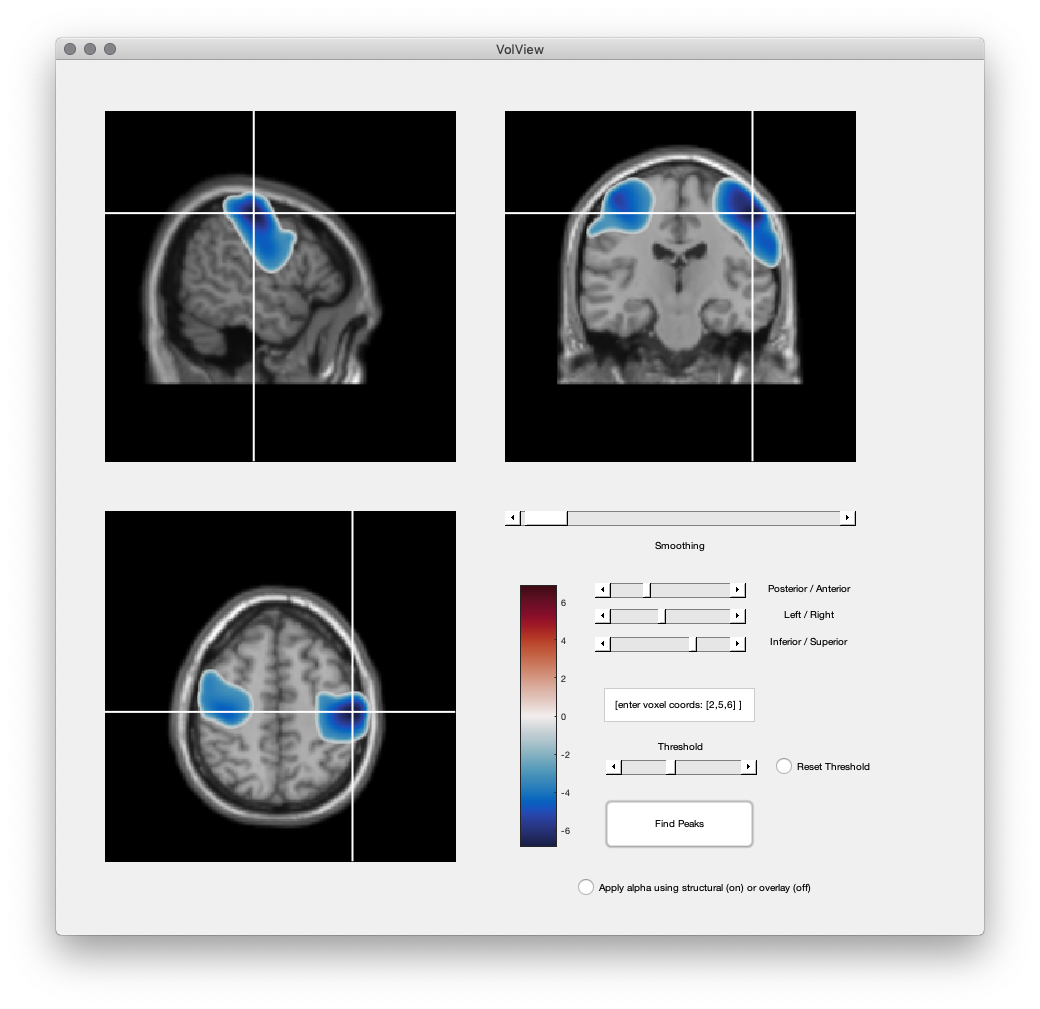
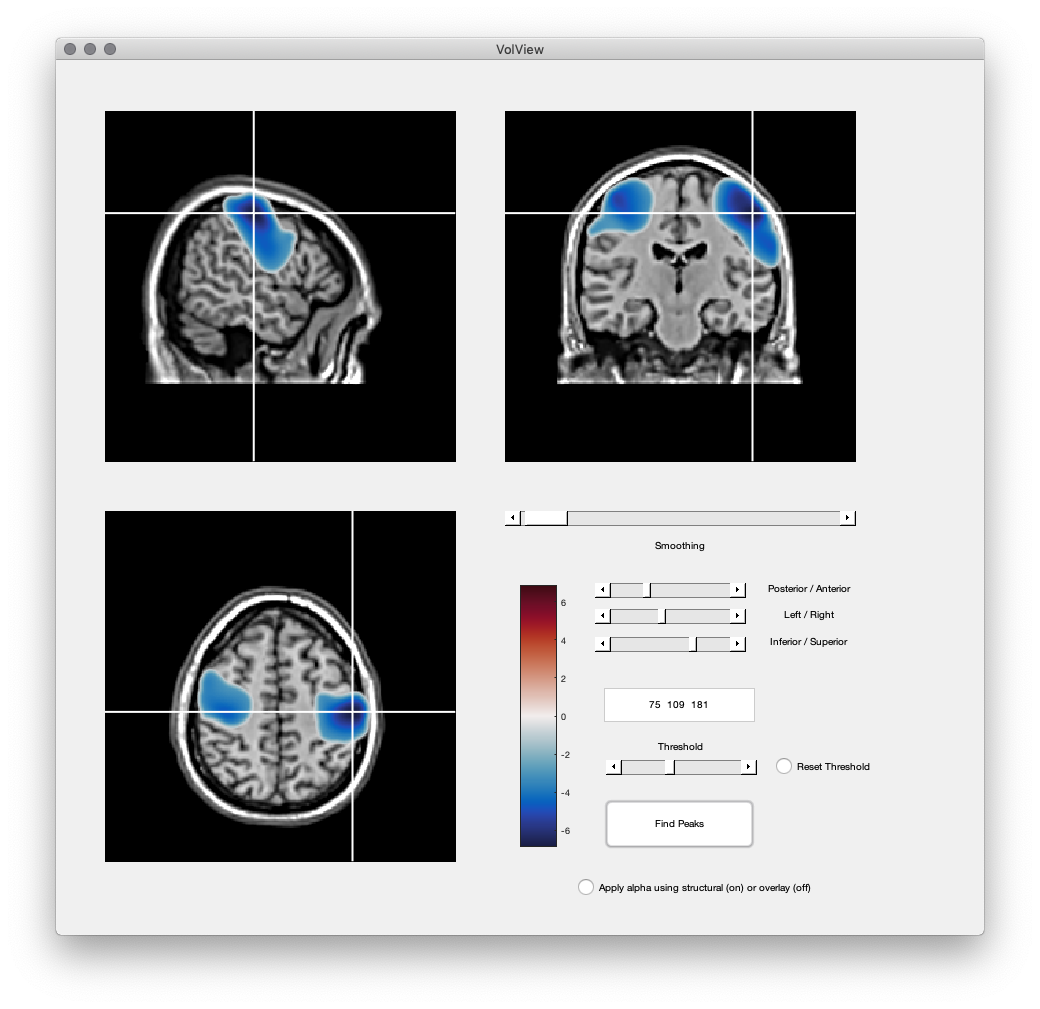
update

diff --git a/VolView.m b/VolView.m
@@ -181,6 +181,8 @@ XO = ( flipud(xviewo') );
 
 % Plot the sturctural image in axes 1
 XS = mat2gray(S);
+XS = imsharpen(XS,'Radius',3,'Amount',2);
+XS = imadjust(XS);
 h0 = imshow(XS);% hold on;
 
 % Gen new axes over the top
@@ -229,6 +231,8 @@ YO = fliplr(flipud(yviewo'));
 
 % Plot the sturctural image in axes 1
 YS = mat2gray(S);
+YS = imsharpen(YS,'Radius',3,'Amount',2);
+YS = imadjust(YS);
 h0 = imshow(YS);% hold on;
 
 % Gen new axes over the top
@@ -273,6 +277,8 @@ ZO = fliplr(flipud(zviewo'));
 
 % Plot the sturctural image in axes 1
 ZS = mat2gray(S);
+ZS = imsharpen(ZS,'Radius',3,'Amount',2);
+ZS = imadjust(ZS);
 h0 = imshow(ZS);  % hold on;
 
 
@@ -313,41 +319,8 @@ set(handles.slider4, 'Max', 64);
 set(handles.slider4, 'Value', handles.smooth);
 set(handles.slider4, 'SliderStep', [1/64 , 10/64 ]);
 
-%set(handles.axes4,'visible',0)
-
-% % Axes 4: XYZ view
-% %------------------------
-% axes(handles.axes4); hold off;
-% view(3)
-% 
-% cps = curpoints;
-% xlim([0 256]); ylim([0 256]); zlim([0 256]);
-% 
-% ev = Volume*0;
-% ev(cps(1),:     ,:     ) = xview;
-% ev(:     ,cps(2),:     ) = yview;
-% ev(:     ,:     ,cps(3)) = zview;
-% h4  = slice(ev,cps(1),cps(2),cps(3));  hold on;
-% 
-% ov = Overlay*0;
-% ov(cps(1),:     ,:     ) = xviewo;
-% ov(:     ,cps(2),:     ) = yviewo;
-% ov(:     ,:     ,cps(3)) = zviewo;
-% 
-% h42 = slice(ov,cps(1),cps(2),cps(3));
-% 
-% 
-% rotate3d on;
-% set(h4,'LineStyle','none')
-% set(h42,'LineStyle','none')
-
-
-
-
-
-% XS, YS, ZS
-% XO, YO, ZO
-
+% print current points [x,yz] to edit text box
+set(handles.edit1,'String',[num2str(curpoints)]);
 
 
 
